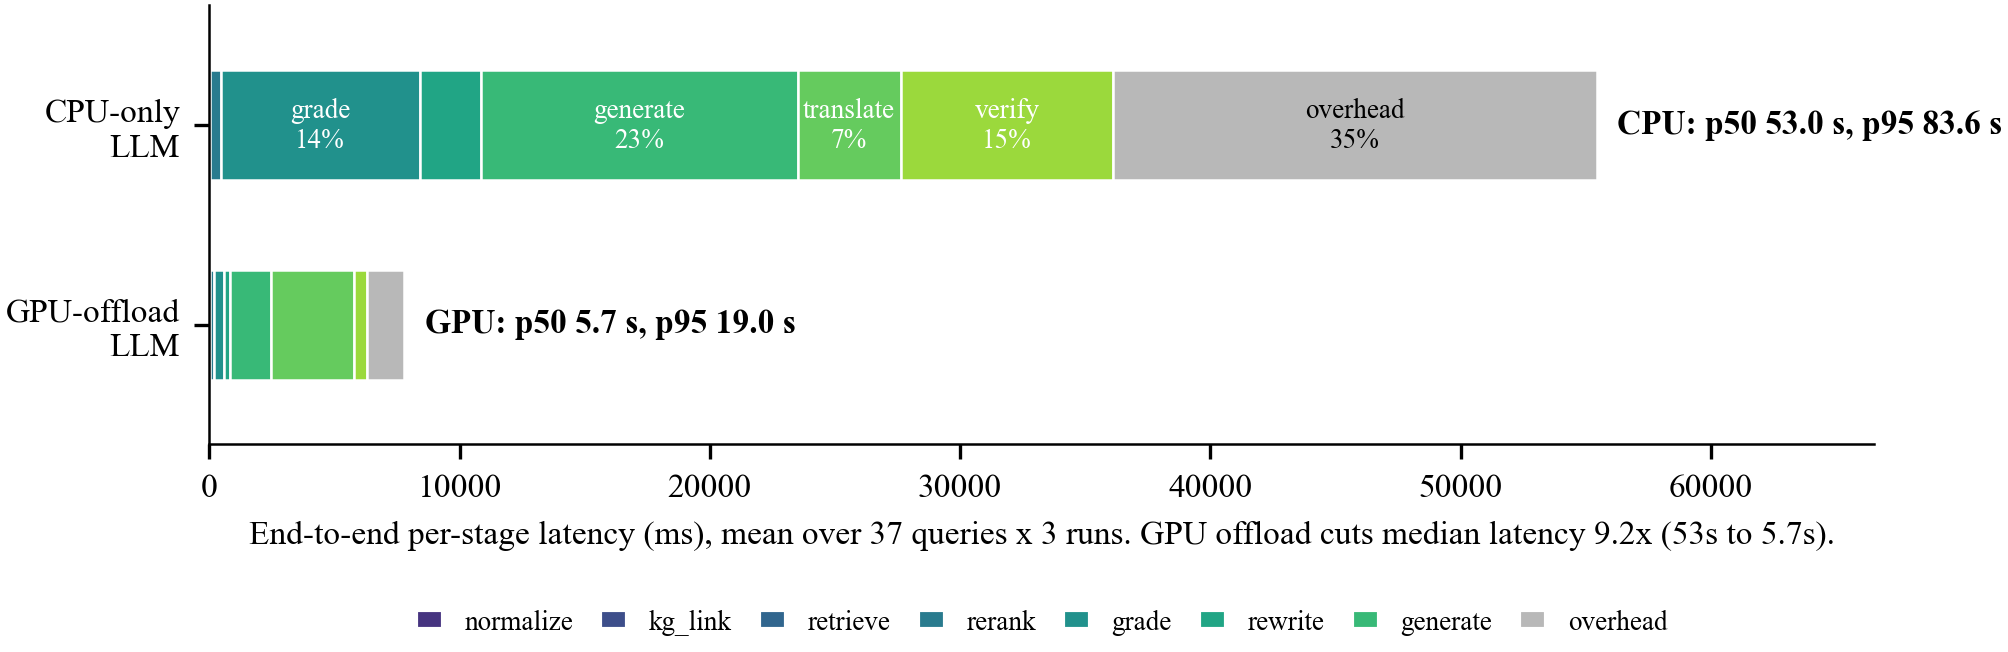
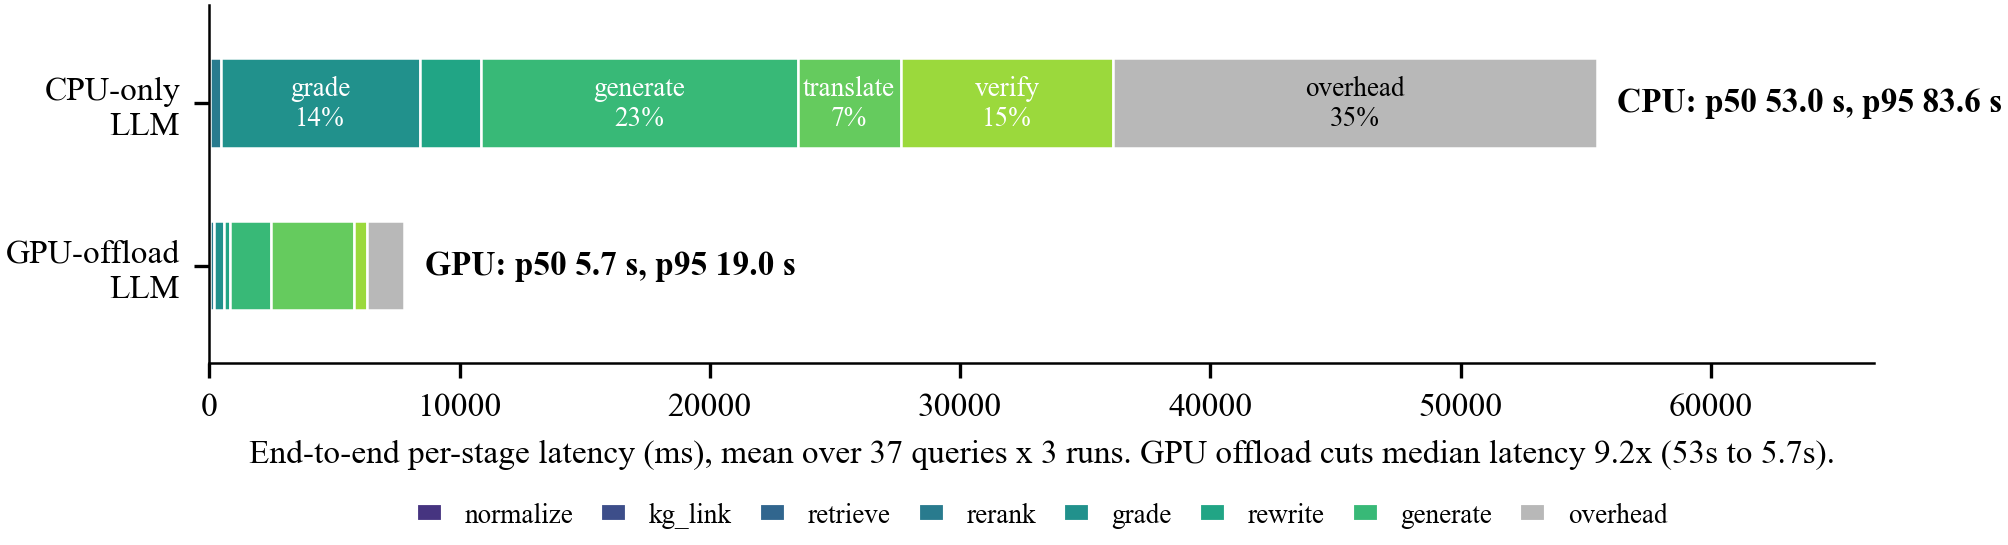
Update make_figures script and figures, tweak bangla_t5

diff --git a/agribot/translation/bangla_t5.py b/agribot/translation/bangla_t5.py
@@ -135,23 +135,45 @@ class BanglaTranslator:
         # and mangled the bold markers (e.g. "**Symptoms:**" -> "* উপসর্গ: **").
         out_lines: list[str] = []
         for raw_line in text.split("\n"):
-            line = raw_line.rstrip()
-            if not line.strip():
+            s = raw_line.strip()
+            if not s:
                 out_lines.append("")
                 continue
 
-            # Detect + peel off markdown scaffolding so only prose is translated.
-            header = re.match(r"^\*\*(.+?):\*\*$", line.strip())
-            bullet = re.match(r"^[-•]\s+(.*)$", line.strip())
-            if header:
-                prefix, suffix, content = "**", ":**", header.group(1)
-            elif bullet:
-                prefix, suffix, content = "- ", "", bullet.group(1)
-            else:
-                prefix, suffix, content = "", "", line.strip()
+            # Defensive: the LLM occasionally emits an unbalanced bold marker
+            # (e.g. "- **Moisture" with no closing "**"). Drop the lone marker
+            # so it never survives into the translated output as raw "**".
+            if s.count("**") % 2 == 1:
+                _idx = s.rfind("**")
+                s = (s[:_idx] + s[_idx + 2:]).strip()
+                if not s:
+                    out_lines.append("")
+                    continue
 
-            translated_content = self._translate_block(content, max_length, num_beams)
-            out_lines.append(f"{prefix}{translated_content}{suffix}")
+            # Peel off markdown scaffolding so BanglaT5 only ever sees prose;
+            # the markers are re-applied around the translation. Translating raw
+            # "**...**" mangles the asterisks, so each marker class is handled.
+            header = re.match(r"^\*\*(.+?)\*\*$", s)              # **Header** / **Header:**
+            bullet_bold = re.match(r"^[-•]\s+\*\*(.+?)\*\*\s*(.*)$", s)  # - **Sub[:]** rest
+            bullet = re.match(r"^[-•]\s+(.*)$", s)                # - text
+
+            def _bold(inner: str) -> str:
+                # Preserve a trailing colon inside the bold span when present.
+                if inner.endswith(":"):
+                    return f"**{self._translate_block(inner[:-1], max_length, num_beams)}:**"
+                return f"**{self._translate_block(inner, max_length, num_beams)}**"
+
+            if header:
+                out_lines.append(_bold(header.group(1)))
+            elif bullet_bold:
+                rest = bullet_bold.group(2).strip()
+                rest_tr = f" {self._translate_block(rest, max_length, num_beams)}" if rest else ""
+                out_lines.append(f"- {_bold(bullet_bold.group(1))}{rest_tr}")
+            elif bullet:
+                body = self._translate_block(bullet.group(1), max_length, num_beams)
+                out_lines.append(f"- {body}")
+            else:
+                out_lines.append(self._translate_block(s, max_length, num_beams))
 
         return "\n".join(out_lines).strip()
 

diff --git a/scripts/make_figures.py b/scripts/make_figures.py
@@ -145,7 +145,6 @@ def fig1_architecture():
     # --- Client layer ---
     with g.subgraph(name="cluster_client") as c:
         c.attr(label="Client layer", style="dashed", color="gray50", fontsize="9")
-        c.node("mobile", "Mobile app\n(Capacitor)", fillcolor="#dde8f5")
         c.node("web", "Web UI\n(Vite + React)", fillcolor="#dde8f5")
 
     # --- API layer (middlewares + endpoints) ---
@@ -191,7 +190,6 @@ def fig1_architecture():
         c.node("telem", "telemetry.db", shape="cylinder", fillcolor="#ececec")
 
     # --- Edges: client → api ---
-    g.edge("mobile", "api", label="HTTPS / JSON")
     g.edge("web", "api", label="HTTPS / JSON")
     g.edge("middleware", "api", style="dashed", arrowhead="none",
            label="all routes", fontsize="7", color="dimgray")
@@ -362,7 +360,7 @@ def fig4_latency():
 
     from matplotlib.patches import Patch
 
-    fig, ax = plt.subplots(figsize=(WIDE_WIDTH_IN, 1.9))
+    fig, ax = plt.subplots(figsize=(WIDE_WIDTH_IN, 1.55))
     rows = [("CPU", cpu_stages, cpu_mean, cpu_p50, cpu_p95, 1.0),
             ("GPU", gpu_stages, gpu_mean, gpu_p50, gpu_p95, 0.0)]
     for label, stages, mean_wall, p50, p95, ypos in rows:
@@ -571,8 +569,7 @@ def fig1_mpl():
     _setup_diagram_axes(ax, xlim=(0, 14), ylim=(0, 10))
 
     # --- Row 1: Client ---
-    _draw_box(ax, 4.5, 8.7, 2.2, 0.8, "Mobile app\n(Capacitor)", fill="#dde8f5")
-    _draw_box(ax, 7.3, 8.7, 2.2, 0.8, "Web UI\n(Vite + React)", fill="#dde8f5")
+    _draw_box(ax, 5.9, 8.7, 2.2, 0.8, "Web UI\n(Vite + React)", fill="#dde8f5")
     ax.text(0.2, 9.1, "Client", fontsize=8, color="gray", style="italic")
 
     # --- Row 2: API ---
